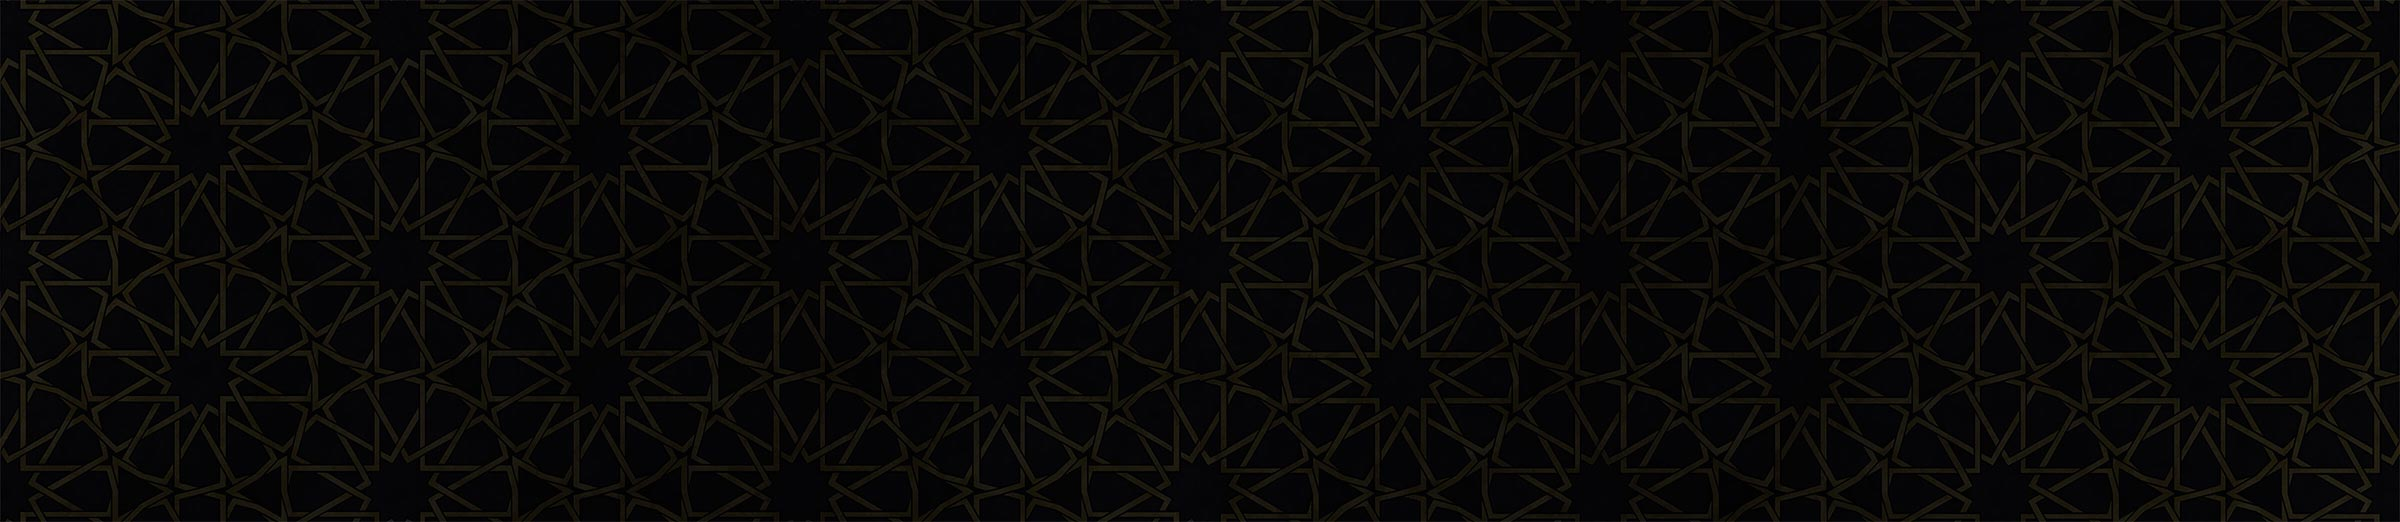
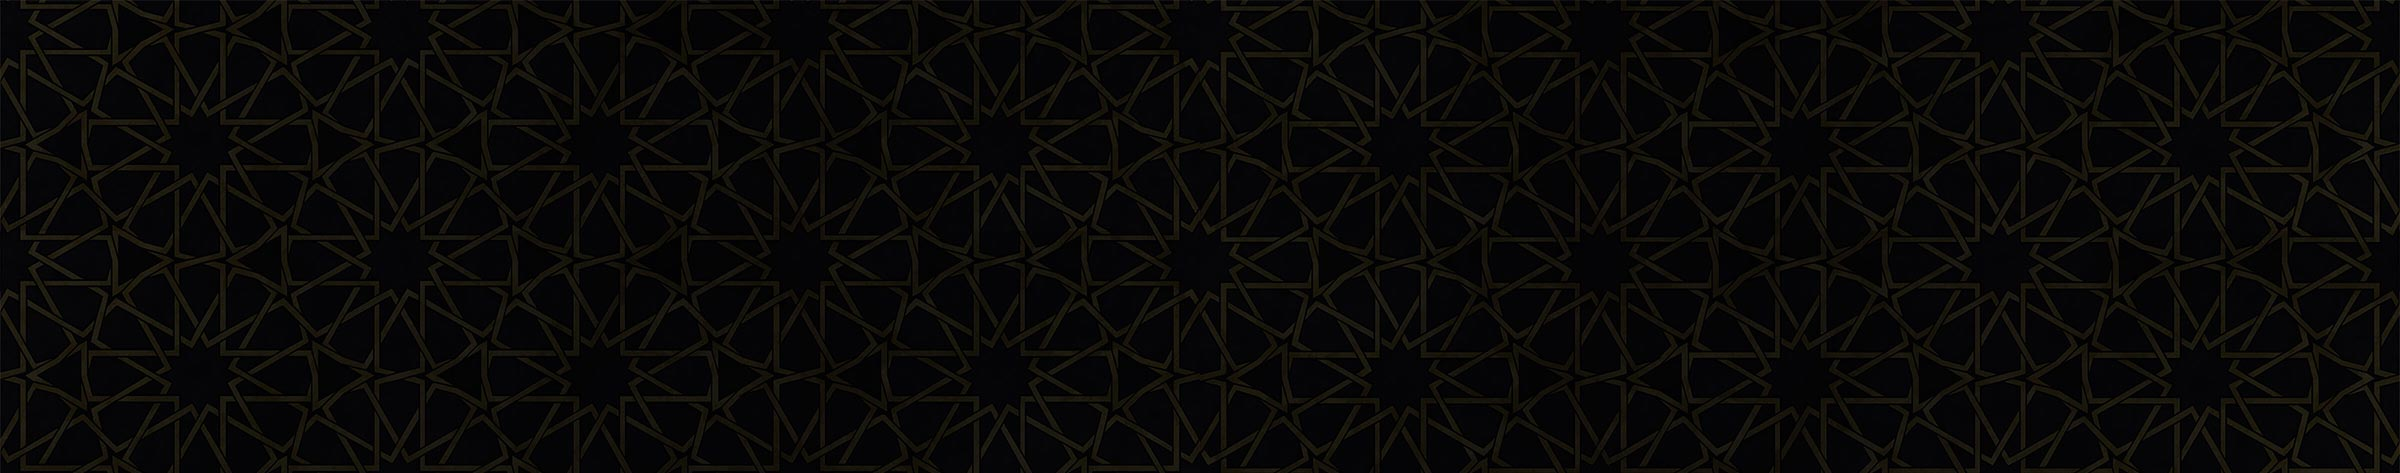
Update to header

diff --git a/index.html b/index.html
@@ -7,7 +7,7 @@
   <title>Solo Dry Spa | Coming Soon</title>
   <link rel="preconnect" href="https://use.typekit.net" crossorigin>
   <link rel="stylesheet" href="https://use.typekit.net/pzx0ris.css">
-  <link rel="stylesheet" href="style.css?v=1.0.4">
+  <link rel="stylesheet" href="style.css?v=1.0.6">
   <link media="(prefers-color-scheme: light)" href="img/fav-light.png" rel="icon" type="image/x-icon" />
   <link media="(prefers-color-scheme: dark)" href="img/fav-dark.png" rel="icon" type="image/x-icon" />
   <meta property="og:title" content="SOLO Dry Spa | Coming Soon">

diff --git a/style.css b/style.css
@@ -104,7 +104,7 @@ header .bg {
     top: 0;
     left: 0;
     width: 100%;
-    height: 100%;
+    height: 120%;
     z-index: -1;
 }
 header .bg img {
@@ -375,6 +375,9 @@ main section {
     }
 }
 @media (max-width: 767px) {
+    header .bg {
+        height: 105%;
+    }
     .offering-grid {
         grid-template-columns: 1fr 1fr;
     }
